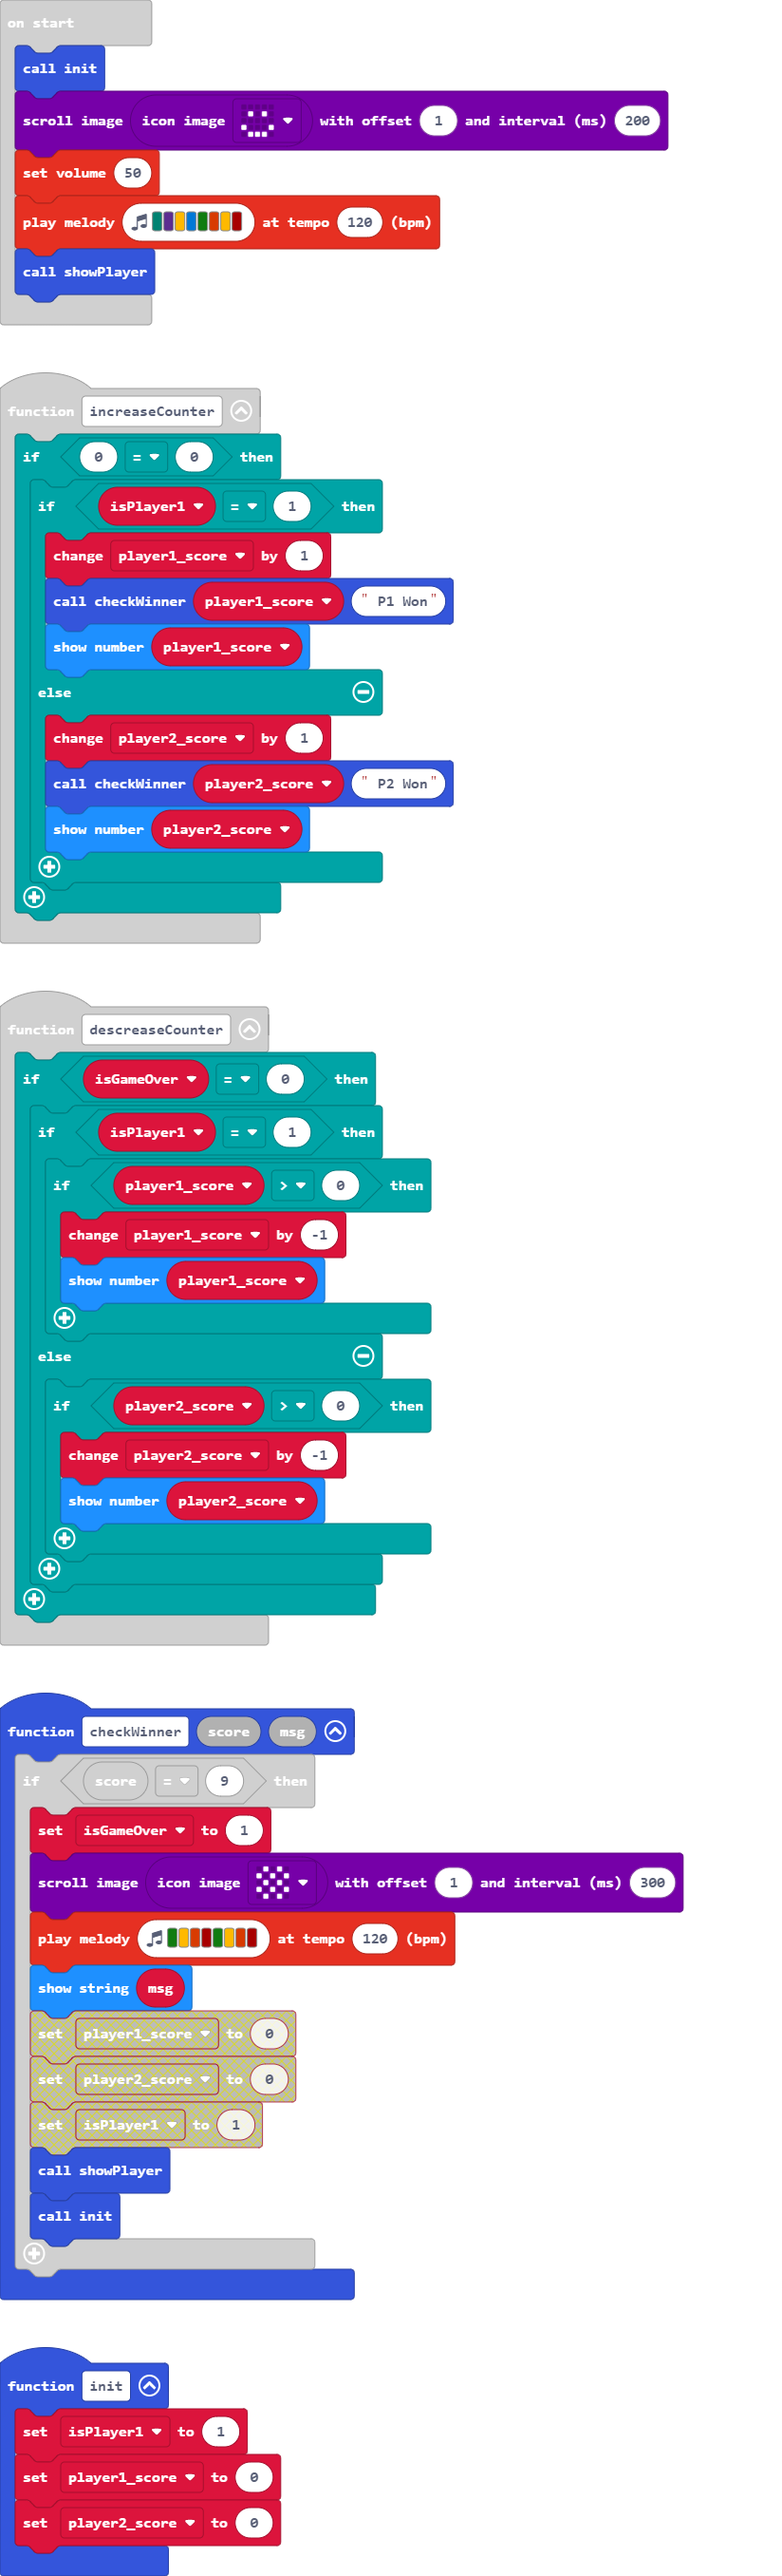
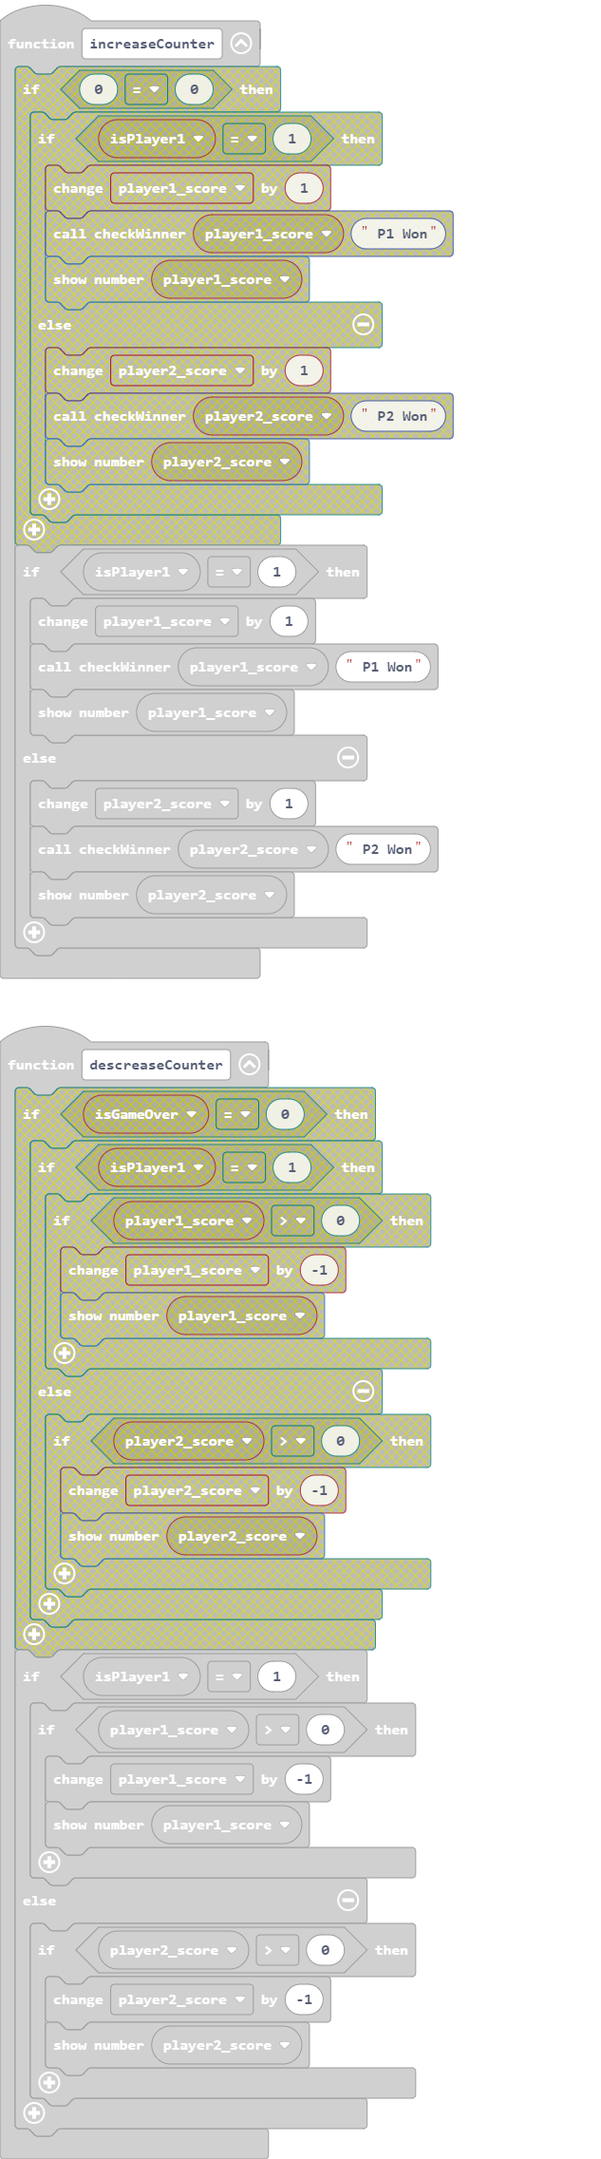
Update main.blocks, main.ts

diff --git a/main.ts b/main.ts
@@ -1,15 +1,13 @@
 function descreaseCounter () {
-    if (isGameOver == 0) {
-        if (isPlayer1 == 1) {
-            if (player1_score > 0) {
-                player1_score += -1
-                basic.showNumber(player1_score)
-            }
-        } else {
-            if (player2_score > 0) {
-                player2_score += -1
-                basic.showNumber(player2_score)
-            }
+    if (isPlayer1 == 1) {
+        if (player1_score > 0) {
+            player1_score += -1
+            basic.showNumber(player1_score)
+        }
+    } else {
+        if (player2_score > 0) {
+            player2_score += -1
+            basic.showNumber(player2_score)
         }
     }
 }
@@ -24,16 +22,14 @@ function checkWinner (score: number, msg: string) {
     }
 }
 function increaseCounter () {
-    if (0 == 0) {
-        if (isPlayer1 == 1) {
-            player1_score += 1
-            checkWinner(player1_score, " P1 Won")
-            basic.showNumber(player1_score)
-        } else {
-            player2_score += 1
-            checkWinner(player2_score, " P2 Won")
-            basic.showNumber(player2_score)
-        }
+    if (isPlayer1 == 1) {
+        player1_score += 1
+        checkWinner(player1_score, " P1 Won")
+        basic.showNumber(player1_score)
+    } else {
+        player2_score += 1
+        checkWinner(player2_score, " P2 Won")
+        basic.showNumber(player2_score)
     }
 }
 input.onButtonPressed(Button.A, function () {
@@ -64,10 +60,10 @@ input.onButtonPressed(Button.B, function () {
     }
     showPlayer()
 })
+let isGameOver = 0
 let player2_score = 0
 let player1_score = 0
 let isPlayer1 = 0
-let isGameOver = 0
 init()
 images.iconImage(IconNames.Happy).scrollImage(1, 200)
 music.setVolume(50)
